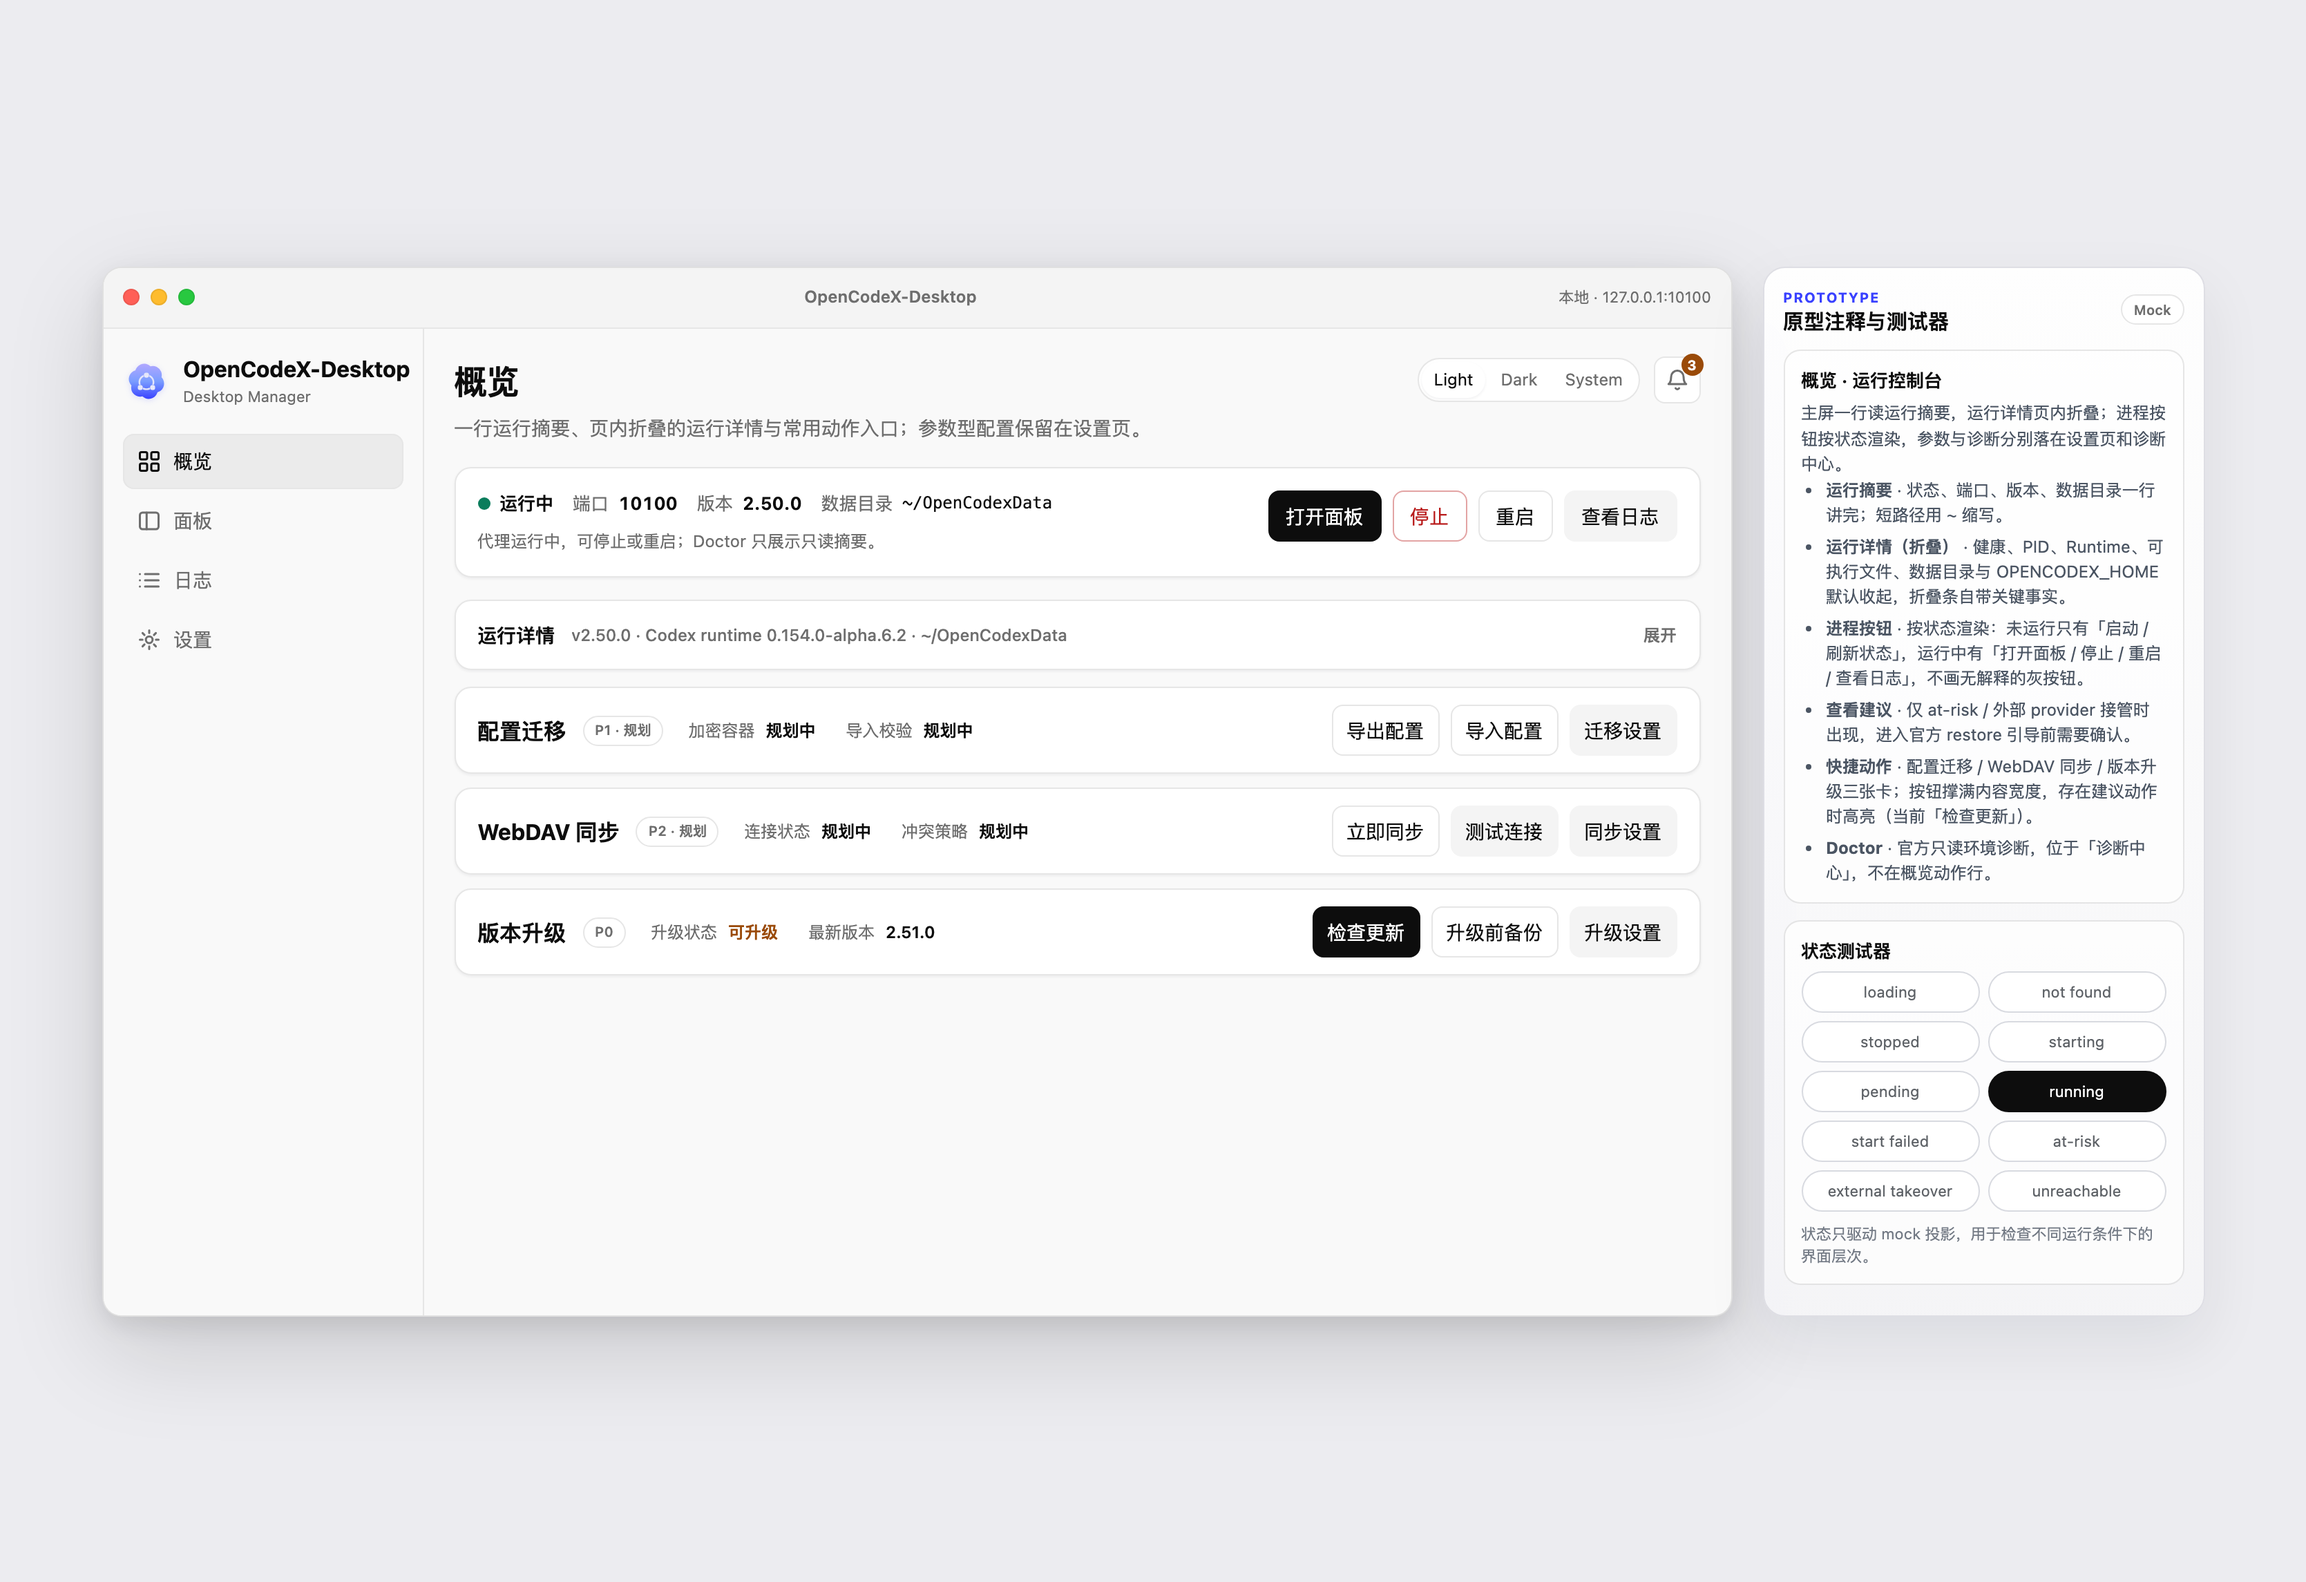
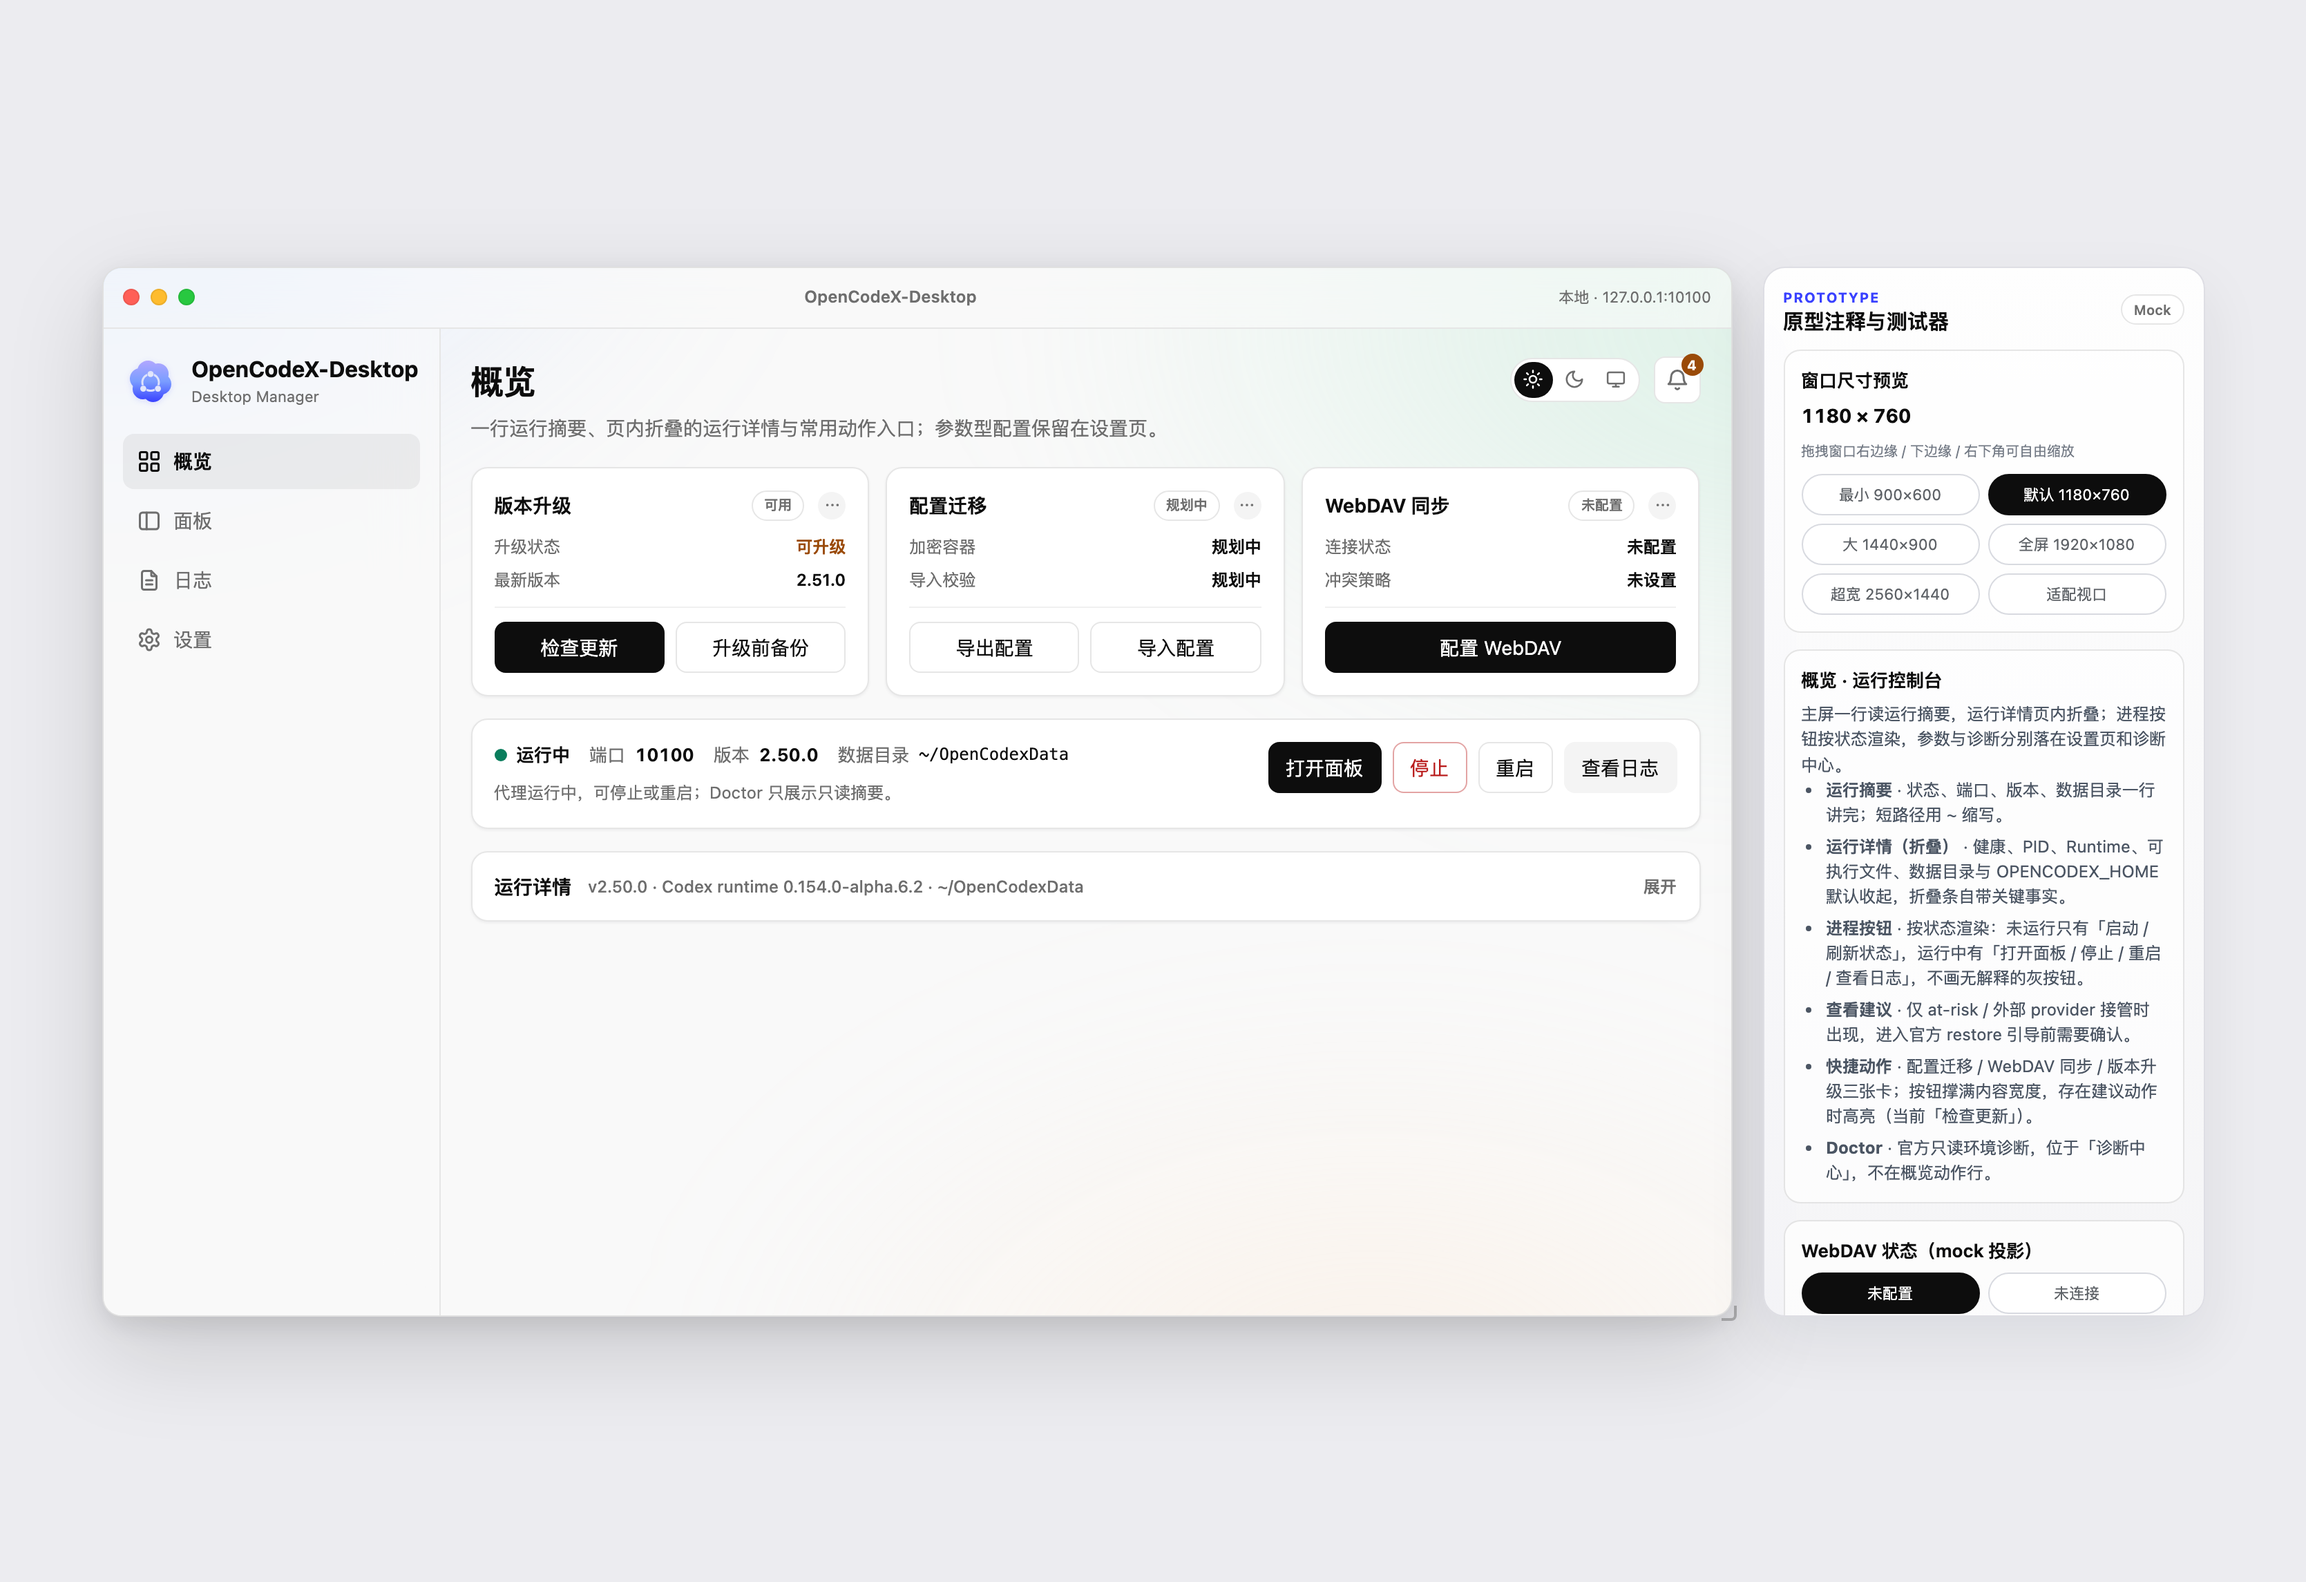
docs(设计): 记录强调色映射定稿并重出截图
- design-qa.md 追加「强调色三层映射收敛（方案 A，定稿）」：问题、判据、
  7 处修法、与官方的对应关系、侧栏维持 S0 的三个候选实测、计算样式实测
- README.md 补充强调色三层规则，并把 对比-20260913-强调色/ 纳入目录结构与产物
- 重出 截图/现行/ 全套 19 张（含 annotated / doctor / panel）
- 新增 截图/对比-20260913-强调色/：强调色对比 light/dark、侧栏选中强调色对比 light/dark

diff --git a/docs/04-项目资料/03-项目协作资料/01-协作包/2026-09-12-OpenCodex桌面管理器需求协作/05-原型设计/文档/design-qa.md b/docs/04-项目资料/03-项目协作资料/01-协作包/2026-09-12-OpenCodex桌面管理器需求协作/05-原型设计/文档/design-qa.md
@@ -1040,3 +1040,74 @@ body:before{content:"";z-index:-1;pointer-events:none;filter:blur(70px);
 
 - `截图/现行/prototype-panel-light.png`、`prototype-panel-dark.png`（图标栏新尺寸）
 - `截图/现行/` 其余截图一并重出。
+
+## 2026-09-13 · 强调色三层映射收敛（方案 A，定稿）
+
+### 问题
+
+`design-tokens.md` 里的强调色 token 与官方逐字一致（`--accent` 亮 `#0d0d0d` / 暗 `#ececec`、`--accent-soft`、`--accent-ink`、`--accent-ring`），但「哪种语义用哪一层」的映射是乱的：同一个「选中」语义出现四种写法，且混入了第二套色相。
+
+| 位置 | 改前写法 | 层 |
+|---|---|---|
+| 侧栏导航选中 | `--accent-soft` + 中性 `--border` 1px 内描边 | 浅，但描边把强调感中和掉 |
+| 主题分段控件选中 | 中性 `--raised` | **与强调色脱钩** |
+| 数据目录分段控件选中 | 中性 `--panel` + 阴影 | **与强调色脱钩** |
+| 分区 tab 选中 | `--accent` 2px 下划线 + 字重 600 | 中 |
+| 数据目录表 `code` | 品牌蓝 `--brand #3941ff` | **第二套色相** |
+
+### 判据（定稿）
+
+**选位置 → 浅**（`--accent-soft` + 字重 600）　**标位置 → 中**（`--accent` 2px 下划线）　**催动作 → 纯**（`--accent` 实底 + `--accent-ink`）
+
+### 修法
+
+| # | 选择器 | 改前 → 改后 |
+|---|---|---|
+| 1 | `.nav button.active` | `box-shadow:inset 0 0 0 1px var(--border)` → `font-weight:600`（去中性描边，靠浅底+字重） |
+| 2 | `.theme-seg button.active` | `--raised` + `--shadow-sm` → `--accent` 实底 + `--accent-ink` |
+| 3 | `.seg button.active` | `--panel` + `--shadow-sm` → `--accent` 实底 + `--accent-ink` |
+| 4 | `.mock-rail span:first-child` | 去掉同一枚中性描边，与 #1 保持同层 |
+| 5 | `.data-root-table code` | `--brand` → `--text`（蓝色收口） |
+| 6 | `.prototype-pill` | 该选择器在 DOM 中已无引用，**整条删除**（连同 520px 媒体查询） |
+| 7 | 品牌色字面量 | `.brand-mark` 阴影、resize 描边、`.proto-kicker` 三处 `#3941ff*` 魔法值改用 `var(--brand)`，避免 token 变成死代码 |
+
+不动项：**分区 tab 的下划线保持原样**（改前已是官方 `page-tab--active` 写法）；`.scenarios button.active` 改前已是纯 `--accent`。
+
+### 与官方的对应关系
+
+- `.nav button.active`：官方 `nav-item.active{background:var(--accent-soft);color:var(--text)}` + `font-weight:semibold`，**不加边框**。与 #1 一致。
+- `.seg`（数据目录「跟随数据目录 / 自定义路径」）：官方对应物是 `dash-ma-option` 组 —— 容器 `background:var(--surface-soft, var(--raised));padding:3px;border-radius:pill`，选中项是 `btn-primary`（纯）。我们轨道同为 `--raised`、内距同为 3px，故 #3 取纯 **与官方逐字一致**。
+- `.theme-seg`：官方 CSS 里另有 `.usage-segmented`（轨道 `--surface`、选中 `--raised`）。我们的轨道是 `--panel`，若沿用 `--raised` 选中只有 Δ11，实测不可辨（这就是改前「脱钩」的观感来源），因此按 `dash-ma-option` 的「选中=强调纯色」处理。**此处是主动选择，不是照抄**。
+- `--accent-soft` 三层映射：与官方 `.badge-accent`、`.page-tab--active`、`.btn-primary` 三处一一对应。
+
+### 侧栏选中为什么维持 S0（不加深、不加指示条）
+
+侧栏选中 = 一级导航「你在哪一页」，属**选位置**，按判据就该走浅层，与官方 `nav-item.active` 同值。实测三个候选：
+
+| 候选 | 侧栏选中渲染底色 | 与侧栏底(249) 差 |
+|---|---|---|
+| **S0 浅底 + 字重（采用）** | 234 | 15 |
+| S1 再加 3px `--accent` 左指示条 | 234 + 指示条 | 15 + 强调色实体 |
+| S2 纯 `--accent` 实底 | 13 | 236 |
+
+S2 会让一级导航常驻一块纯黑、与页面主按钮抢焦点；S1 是「觉得太弱」时的备选，本轮不采用。
+
+### 实测
+
+计算样式（headless Chromium，窗口 1180×760）：
+
+| 元素 | light | dark |
+|---|---|---|
+| 侧栏导航选中 | `rgba(13,13,13,.06)` · `box-shadow:none` · `font-weight:600` | `rgba(255,255,255,.09)` · `none` · `600` |
+| 主题分段选中 | `rgb(13,13,13)` + `rgb(255,255,255)` 图标 | `rgb(236,236,236)` + `rgb(13,13,13)` 图标 |
+| 数据目录分段选中 | `rgb(13,13,13)` | `rgb(236,236,236)` |
+| 分区 tab 选中下划线 | `rgb(13,13,13)` 2px | `rgb(236,236,236)` 2px |
+| 数据目录表 code | `rgb(13,13,13)` | `rgb(236,236,236)` |
+
+- 逐变体像素差分（对比图脚本）：`现状↔A` 在侧栏/Tab/分段处均有预期差异；`方案 A↔现状` 在分区 tab 处 **0 像素变化**，证明下划线未被误伤。
+- 零 console error / page error；`node --check` 通过；导航、WebDAV 状态机、通知详情与删除、面板 iframe 加载等回归全部通过。
+
+### 截图
+
+- 决策用对比图：`截图/对比-20260913-强调色/强调色对比-light.png`、`强调色对比-dark.png`（5 组对比点 × 现状/方案 A/方案 B）、`侧栏选中强调色对比-light.png`、`侧栏选中强调色对比-dark.png`（S0/S1/S2）。
+- 正式截图：`截图/现行/` 全套 19 张按方案 A 重出。

diff --git a/docs/04-项目资料/03-项目协作资料/01-协作包/2026-09-12-OpenCodex桌面管理器需求协作/05-原型设计/README.md b/docs/04-项目资料/03-项目协作资料/01-协作包/2026-09-12-OpenCodex桌面管理器需求协作/05-原型设计/README.md
@@ -26,6 +26,7 @@
 - 视觉基准优先使用官方 GUI 构建产物中的设计 token 与源码级快照；截图仅作为视觉 QA 证据，不用作样式来源。
 - 页面背景套用**官方面板的环境光渐变**：`.window::before` 用三层柔光 radial-gradient（取自官方 `body:before`）叠在 `--bg` 之上、内容之下；亮暗各一套（`--glow-1/2/3`）。挂在非滚动的 `.window` 上，内容滚动时背景不动。
 - **侧栏与标题栏用官方同款玻璃质感**：`--glass-rail`（light `#f9f9f9a8` / dark `#1717179e`）+ `backdrop-filter:var(--glass-blur)`（`saturate(1.6) blur(22px)`），环境光从背后透出；面板模式的 64px 图标栏同样处理。
+- **强调色只有一套 `--accent`，但按语义分三层**：**选位置 → 浅**（`--accent-soft` + 字重 600，用于侧栏导航选中）、**标位置 → 中**（`--accent` 2px 下划线，用于分区 tab 选中）、**催动作 → 纯**（`--accent` 实底 + `--accent-ink`，用于主按钮与分段控件选中）。品牌蓝 `--brand` 只作品牌标识登记，不再参与界面强调。
 
 ## 目录结构
 
@@ -47,6 +48,7 @@
         ├── 官方/                   官方快照的 light / dark 渲染截图
         ├── 现行/                   原型当前 QA 证据
         ├── 对比-20260913/           最近一轮方案对比（模块区 / 按钮摆放 / WebDAV 状态）
+        ├── 对比-20260913-强调色/      强调色三层映射与侧栏选中态的定稿对比
         └── 归档-20260913/概览方案/   已退役的概览方案对比
 ```
 
@@ -66,7 +68,7 @@
 | `文档/design-qa.md` | 设计 QA 与待确认项 |
 | `文档/design-tokens.md` | 从官方 GUI 构建产物提取的 P0 对照 token |
 | `文档/同类产品调研-2026-09-12.md` | 同类桌面管理器调研：窗口基准、状态驱动按钮、卡片密度分级等可借鉴做法 |
-| `文档/截图/` | 原型 QA 证据（`现行/`、`对比-20260913/`、`归档-20260913/`）与官方对照截图（`官方/`） |
+| `文档/截图/` | 原型 QA 证据（`现行/`、`对比-20260913/`、`对比-20260913-强调色/`、`归档-20260913/`）与官方对照截图（`官方/`） |
 
 ## 覆盖范围
 
